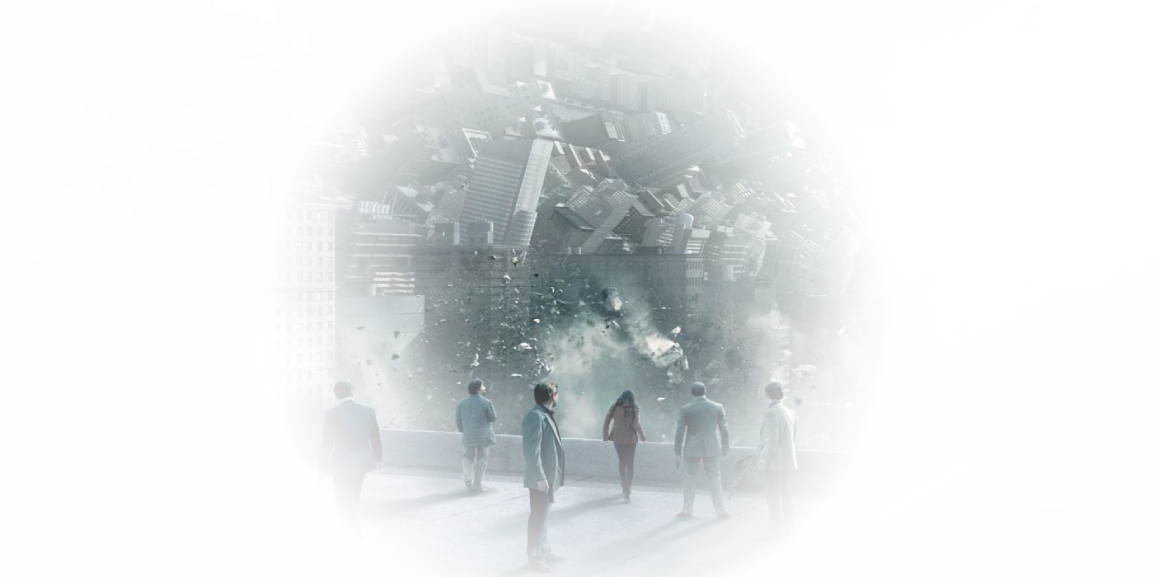
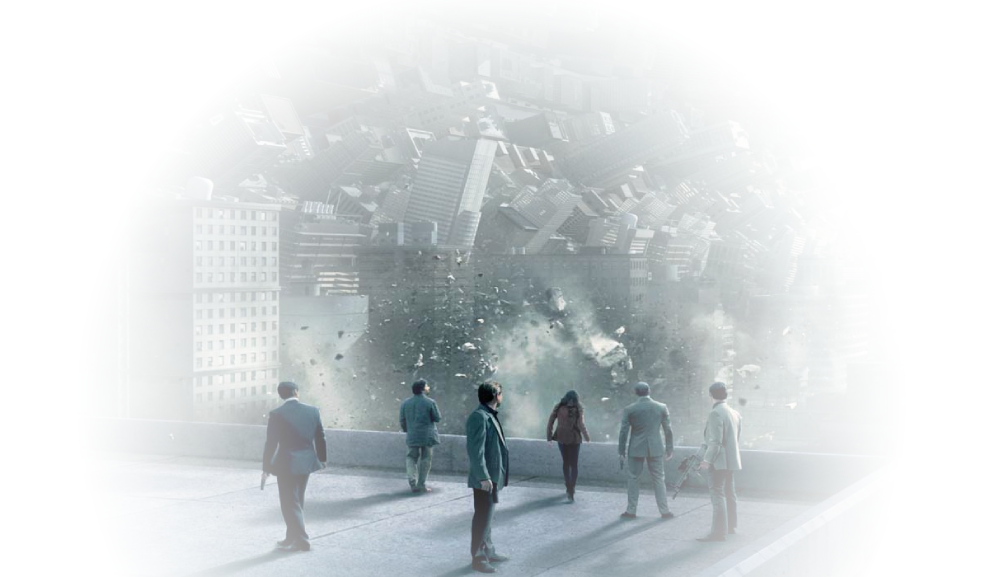
Amélioration du fond du footer

diff --git a/css/style.css b/css/style.css
@@ -222,8 +222,9 @@ p.movie-year{
 footer{
     padding-top:95px;
     height:478px;
-    background-color:#111111;
-    background: #111111 url('../img/backgrounds/bckg-inception.png') no-repeat center ;
+    background: linear-gradient(rgba(1, 1, 1, 0.7), rgba(83, 83, 83, 0.7)), url('../img/backgrounds/bckg-inception.png');
+    background-repeat: no-repeat;
+    background-position: center;
 }
 .form-contain{
     display:flex;
